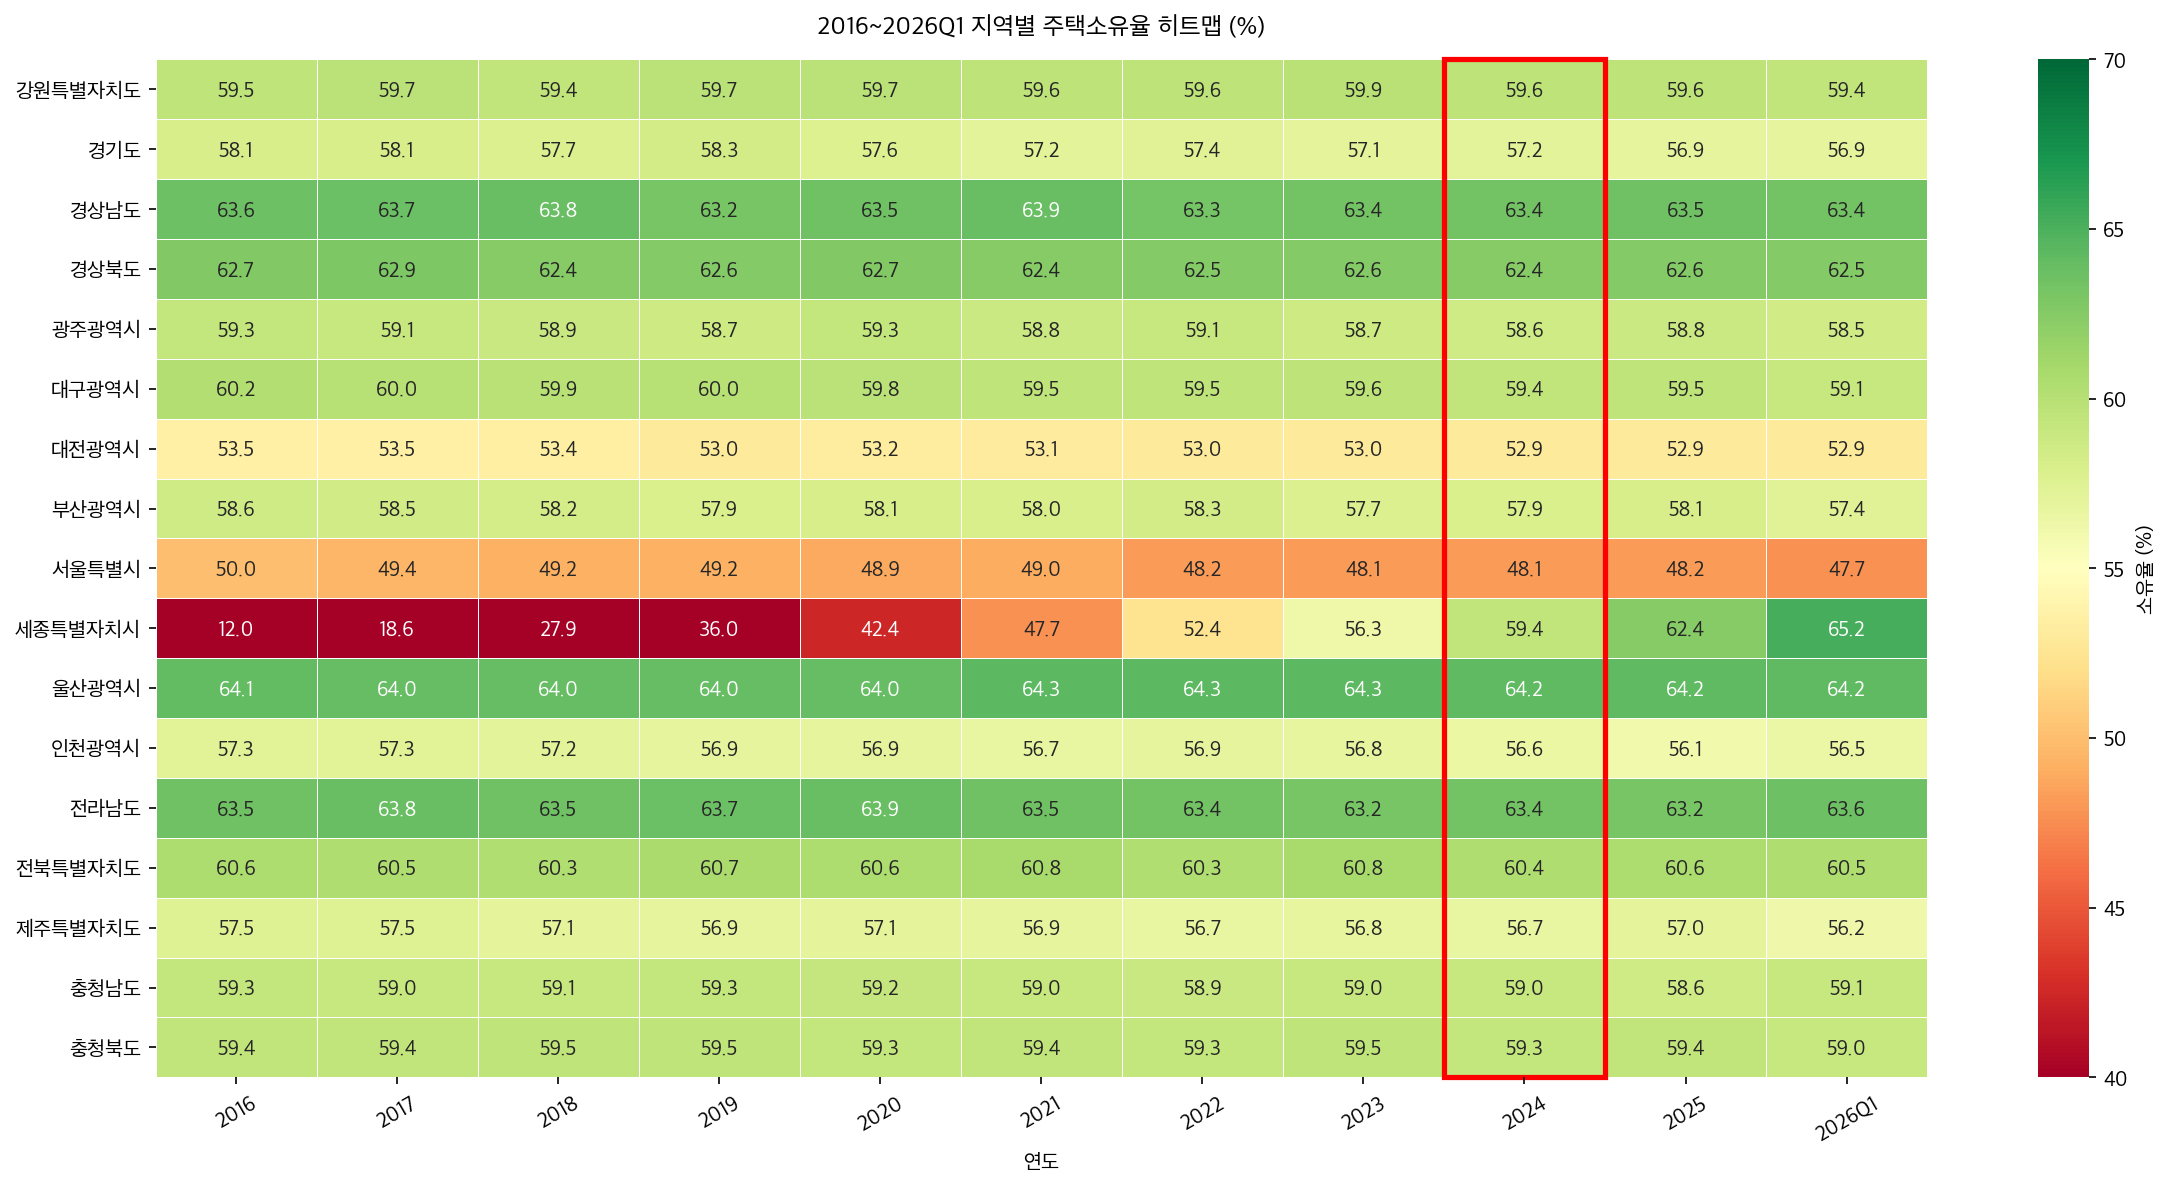
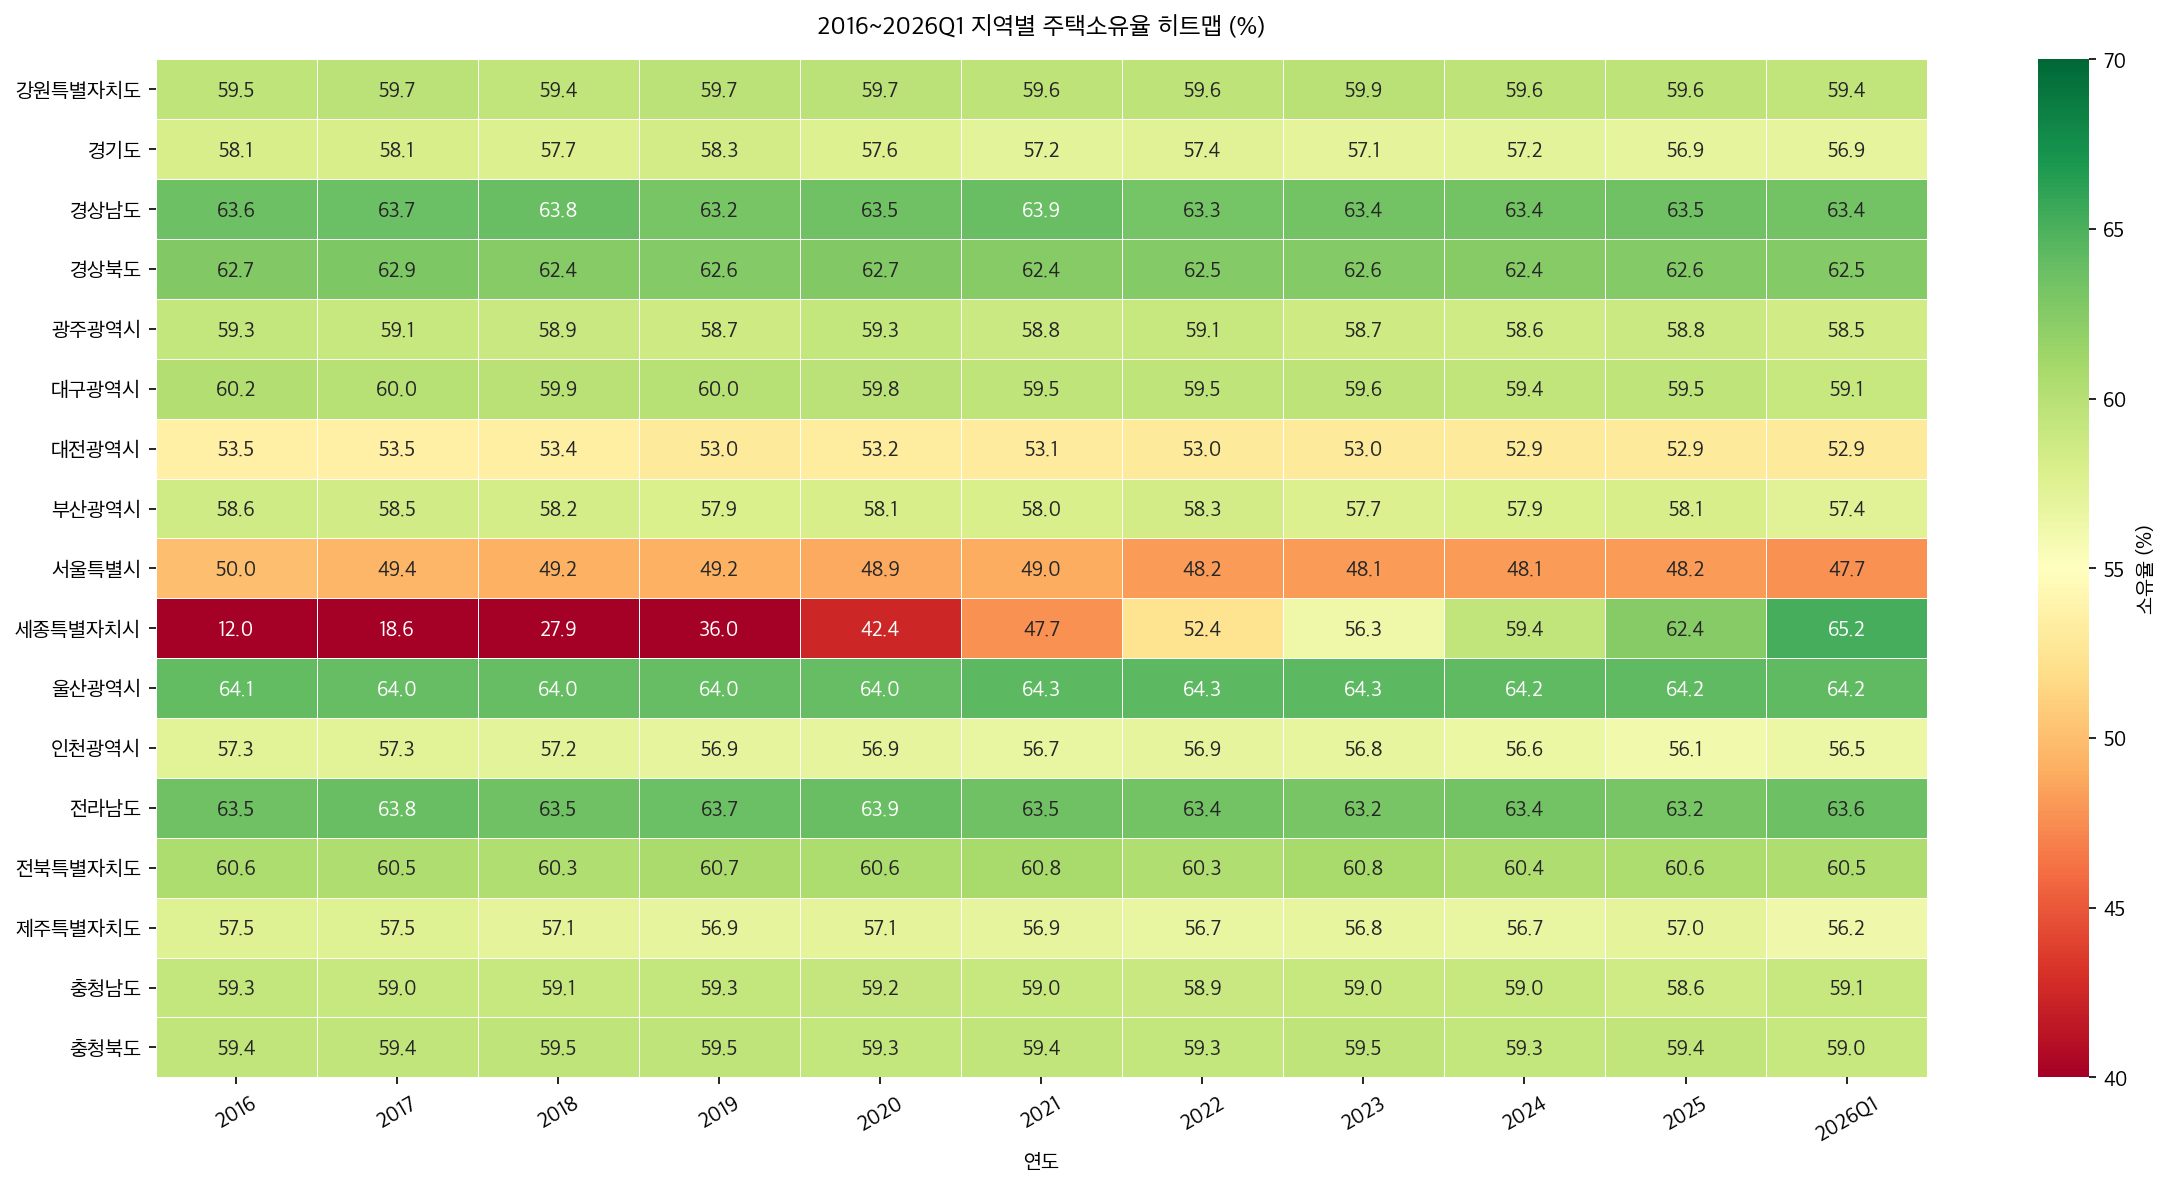
fix: 지역별 소유율 히트맵 2024 컬럼 빨간 테두리 제거

diff --git a/housing/housing_eda.py b/housing/housing_eda.py
@@ -268,11 +268,6 @@ ax.set_title("2016~2026Q1 지역별 주택소유율 히트맵 (%)", pad=12)
 ax.set_xlabel("연도")
 ax.set_ylabel("")
 ax.tick_params(axis="x", rotation=30)
-# 2024 컬럼 강조
-cols = [str(y) for y in YEARS]
-idx2024 = cols.index("2024")
-ax.add_patch(plt.Rectangle((idx2024, 0), 1, len(REGIONS),
-             fill=False, edgecolor="red", lw=2.5, clip_on=False))
 fig.tight_layout()
 save(fig, "02_지역별_연도별_소유율_히트맵.png")
 
